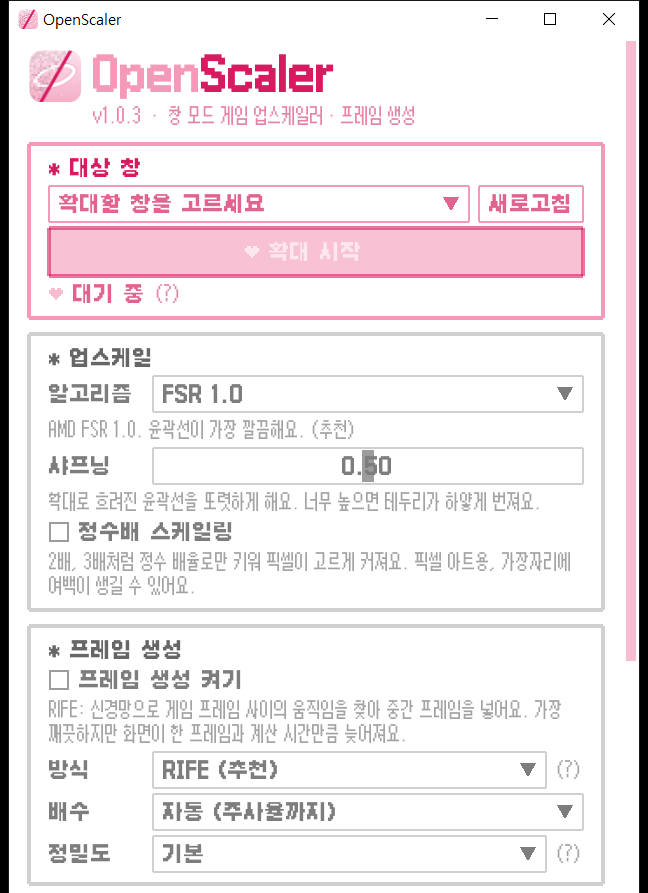
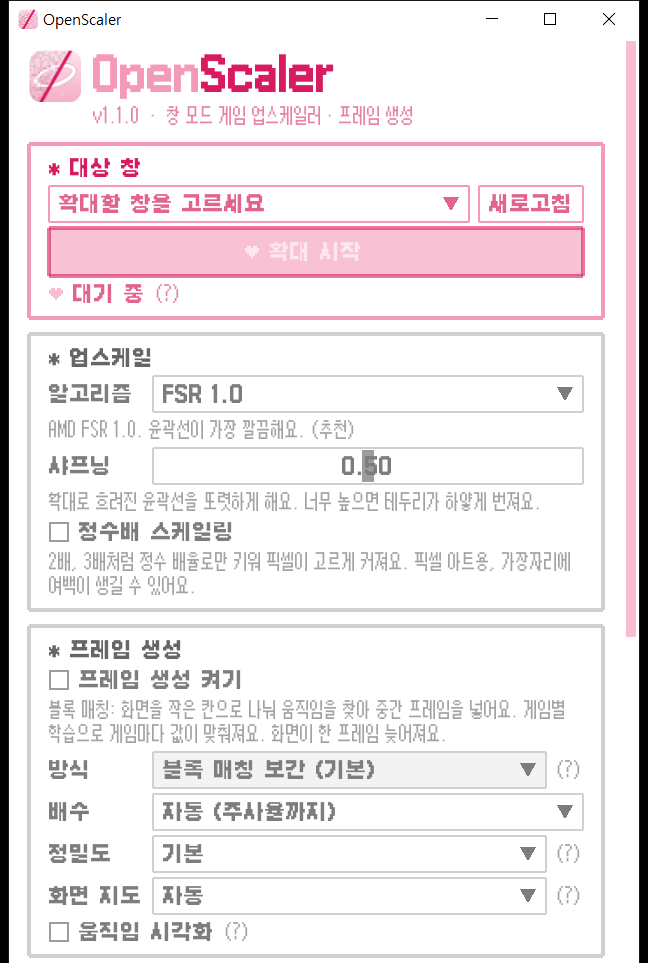
Return to block matching as the default
Per-game learning tunes block matching only, so block matching
interpolation is the default again. The settings window names the
choices "block matching interpolation (default)", "RIFE interpolation"
and "block matching extrapolation (experimental)" and says which ones
learning applies to. Update the README, plan, screenshot, and bump to
1.1.1.

diff --git a/src/app.h b/src/app.h
@@ -27,7 +27,7 @@ struct Settings {
     int fgMultiplier = 0;            // 0: 주사율까지 자동으로 채우기, 2~4: 진짜 프레임 사이를 그 수만큼 나눈다
     int fgQuality = 1;               // 0: 빠름, 1: 기본, 2: 고품질
     int fgMethod = 0;                // 0: 보간, 1: 외삽(실험)
-    int fgGenerator = 1;             // 0: 블록 매칭, 1: RIFE (기본값. rife 폴더가 없으면 블록 매칭)
+    int fgGenerator = 0;             // 0: 블록 매칭 (기본값, 게임별 학습이 맞춘다), 1: RIFE
     int fgPreset = FG_PRESET_AUTO;   // 화면 지도: 자동이면 채점에서 더 좋을 때만 쓴다
     bool fgLearn = true;             // 게임별 학습
     bool fgVisualize = false;        // 움직임을 색으로 표시 (발표용, 저장하지 않는다)
@@ -37,7 +37,7 @@ struct Settings {
 };
 
 // 설정 창의 "방식": 생성기와 보간/외삽을 하나로 묶어 고르게 한다. 외삽은 블록 매칭으로만 만든다.
-enum FgMode { FG_MODE_RIFE, FG_MODE_BLOCK, FG_MODE_EXTRAPOLATE, FG_MODE_COUNT };
+enum FgMode { FG_MODE_BLOCK, FG_MODE_RIFE, FG_MODE_EXTRAPOLATE, FG_MODE_COUNT };
 inline int FgModeOf(const Settings& s)
 {
     if (s.fgMethod == 1) return FG_MODE_EXTRAPOLATE;

diff --git a/src/main.cpp b/src/main.cpp
@@ -1000,7 +1000,7 @@ static void DrawOsd(ScalingSession* s)
         if (g_settings.frameGen && g_frameGen) {
             const FgStats& fg = g_frameGen->Stats();
             wchar_t line[160];
-            static const wchar_t* const kModeLabels[FG_MODE_COUNT] = { L"RIFE", L"블록 매칭", L"외삽" };
+            static const wchar_t* const kModeLabels[FG_MODE_COUNT] = { L"블록 매칭", L"RIFE", L"외삽" };
             const wchar_t* method = kModeLabels[FgModeOf(g_settings)];
             if (fg.noRoom)
                 swprintf_s(line, L"\n프레임 생성 ON (%ls)  ·  게임이 %.0f fps라 넣을 자리가 없음", method, fg.realFps);

diff --git a/docs/frame-generation-plan.md b/docs/frame-generation-plan.md
@@ -345,13 +345,13 @@ python -I tools/test/fgquality.py 결과폴더/gap/fg_gaptest.csv
 직접 볼 것 (사용자만 확인 가능):
 - 상태 표시(Alt+Shift+O)에서 출력 fps가 게임 fps보다 높은지
 - 화면이 부드러워졌는지, 입력이 늦게 느껴지는지, 판정 타이밍이 어긋나는지
-- 비교 모드(Alt+Shift+C)로 왼쪽(생성 없음)과 오른쪽(RIFE)을 나란히 본 느낌
+- 비교 모드(Alt+Shift+C)로 왼쪽(생성 없음)과 오른쪽(블록 매칭 보간, RIFE 보간)을 나란히 본 느낌
 - 60Hz에서 RIFE가 출력 끊김을 많이 냈다 (마인크래프트 분당 74번). 더 좋은 GPU에서도 그런지 본다.
 - README 시연 GIF 다시 찍기: `tools/test/demoform.ps1` 창이나 실제 게임을 비교 모드로 확대하고 슬로모션을 한 장씩 넘기며 찍는다 (이 PC에서 쓴 방법). 영상 녹화가 된다면 실제 속도 영상도 남긴다.
 
 ## 설정 창과 단축키
 
-"프레임 생성" 구역: 프레임 생성 켜기(Alt+Shift+F), 방식(RIFE 기본값 / 블록 매칭 / 외삽 실험, 설정 파일의 FgGenerator와 FgMethod를 묶은 것), 배수, 정밀도(FgQuality), 블록 매칭과 외삽일 때만 화면 지도(FgPreset)와 움직임 시각화, 상태(게임 fps, 움직임 찾기와 합성 시간). 옵션이 많으면 무엇을 골라야 할지 알기 어려워, 2026-11-16에 생성기와 보간/외삽을 하나로 묶고 RIFE를 기본값으로 했다.
+"프레임 생성" 구역: 프레임 생성 켜기(Alt+Shift+F), 방식(블록 매칭 보간 기본값 / RIFE 보간 / 블록 매칭 외삽 실험, 설정 파일의 FgGenerator와 FgMethod를 묶은 것), 배수, 정밀도(FgQuality), 블록 매칭과 외삽일 때만 화면 지도(FgPreset)와 움직임 시각화, 상태(게임 fps, 움직임 찾기와 합성 시간). 옵션이 많으면 무엇을 골라야 할지 알기 어려워, 2026-11-16에 생성기와 보간/외삽을 하나로 묶었다. 잠시 RIFE를 기본값으로 했다가(v1.1.0), 게임별 학습이 블록 매칭에만 적용되므로 같은 날 블록 매칭 보간을 기본값으로 되돌렸다.
 "게임별 학습" 구역의 상태 줄은 기본값과 다른 설정의 개수만 보여 주고, 자세한 값은 (?)에 담는다.
 "게임별 학습" 구역: 켜기/끄기, 게임 목록, 채점 횟수와 학습된 값, 점수 그래프, 기록 지우기.
 비교 모드에서는 왼쪽이 보간 없는 일반 확대, 오른쪽이 보간 결과다.

diff --git a/CLAUDE.md b/CLAUDE.md
@@ -47,13 +47,13 @@ cmd /c "chcp 949 >nul && `"$vs\VC\Auxiliary\Build\vcvars64.bat`" >nul 2>&1 && cm
 
 ## 현재 상태
 
-- 코드 버전 1.1.0 (`main`). 공개 릴리스는 v1.1.0 (2026-11-16, rife 폴더와 toolsdevicecheck.ps1 포함, RIFE 기본값).
+- 코드 버전 1.1.1 (`main`). 공개 릴리스는 v1.1.1 (2026-11-16, rife 폴더와 tools/devicecheck.ps1 포함, 블록 매칭 보간 기본값).
 - 완료: 창 캡처, 5개 업스케일 모드(기본 FSR 1.0), 샤프닝, 정수배, 비교 모드, 상태 표시, 설정 저장, 커서 좌표 변환, 커서 속도 보정, 지연 감소, 설정 창, 로고와 아이콘, CI와 자동 릴리스
 - 프레임 생성: 블록 매칭, 학습 1, 2단계, RIFE 생성기, 슬로모션 테스트(보간, 외삽) 구현 완료. DJMAX는 이 PC(60Hz)에서 60fps로 캡처되어 실시간 생성이 작동하지 않으므로 슬로모션으로만 확인했다. 체감은 아직 확인하지 못했다.
 - DJMAX 테스트는 게임에 Enter 외의 입력을 보내지 않는다 (게임이 비정상 동작으로 보고 꺼질 수 있다). 사용자가 곡 선택 화면을 준비해 둔다.
 - 긴 간격(보통 간격의 2.5배 초과) 쌍은 칸 8, 낮은 벌점으로 추정한다. 측정은 `--fg-gaptest`로 슬로모션 덤프를 쓴다.
 - RIFE 세션은 입력 크기를 고정해 만든다 (크기 계산이 미리 끝나 빨라짐). 크기를 바꾸면 새 세션을 뒤에서 만들고 그동안 이전 크기로 돌린다.
-- 설정 창의 프레임 생성 방식은 RIFE(기본값) / 블록 매칭 / 외삽 하나로 고른다 (`FgModeOf`, `SetFgMode`). 설정 파일 키는 FgMethod, FgGenerator 그대로다.
+- 설정 창의 프레임 생성 방식은 블록 매칭 보간(기본값) / RIFE 보간 / 블록 매칭 외삽 하나로 고른다 (`FgModeOf`, `SetFgMode`). 설정 파일 키는 FgMethod, FgGenerator 그대로다. 게임별 학습은 블록 매칭에만 적용되므로 블록 매칭이 기본값이다 (v1.1.0만 RIFE가 기본값).
 - 다음 작업: 2026-11-21, 22일 고주사율 기기에서 확인 (`docs/frame-generation-plan.md`의 "다른 기기에서 확인할 것"). 결정, 측정 결과, 다른 기기 체크리스트는 `docs/frame-generation-plan.md`
 - 남은 운영 작업: 이슈/PR 템플릿, CONTRIBUTING.md
 
